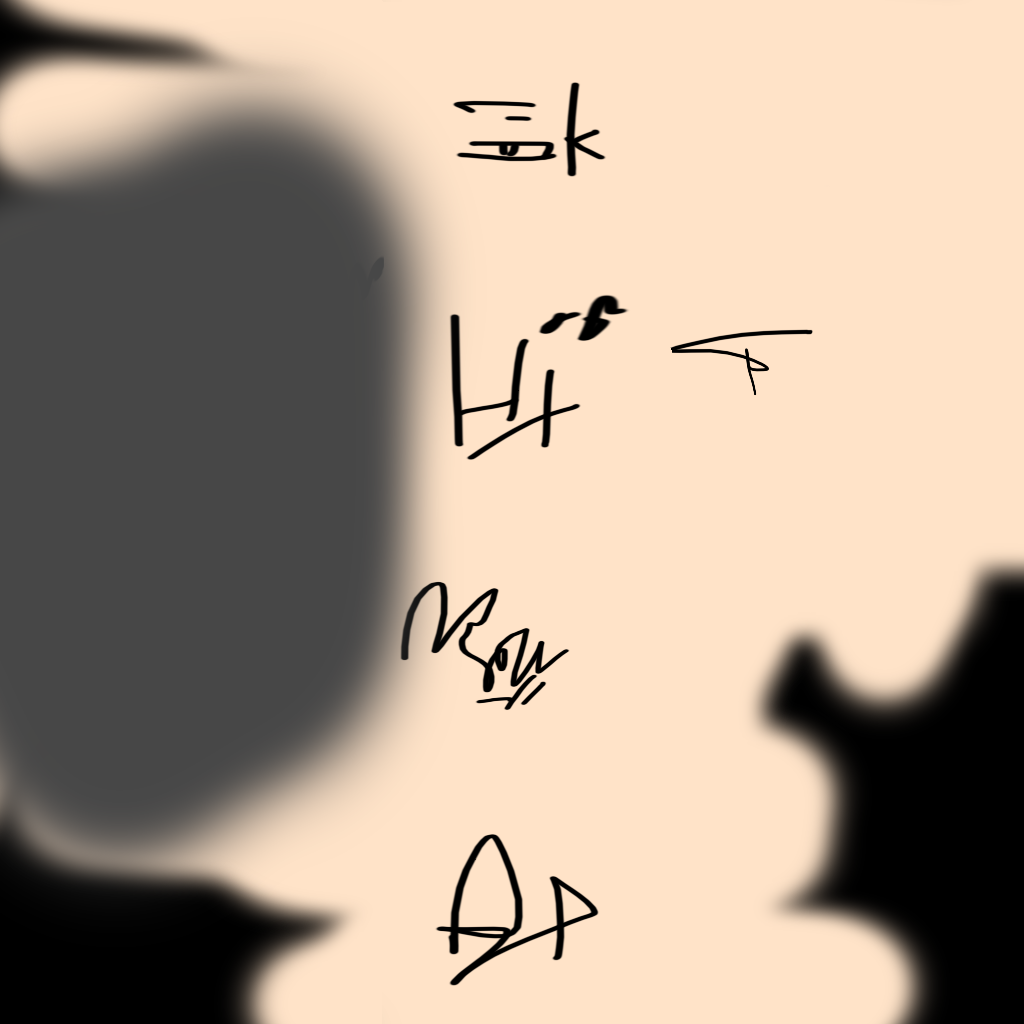
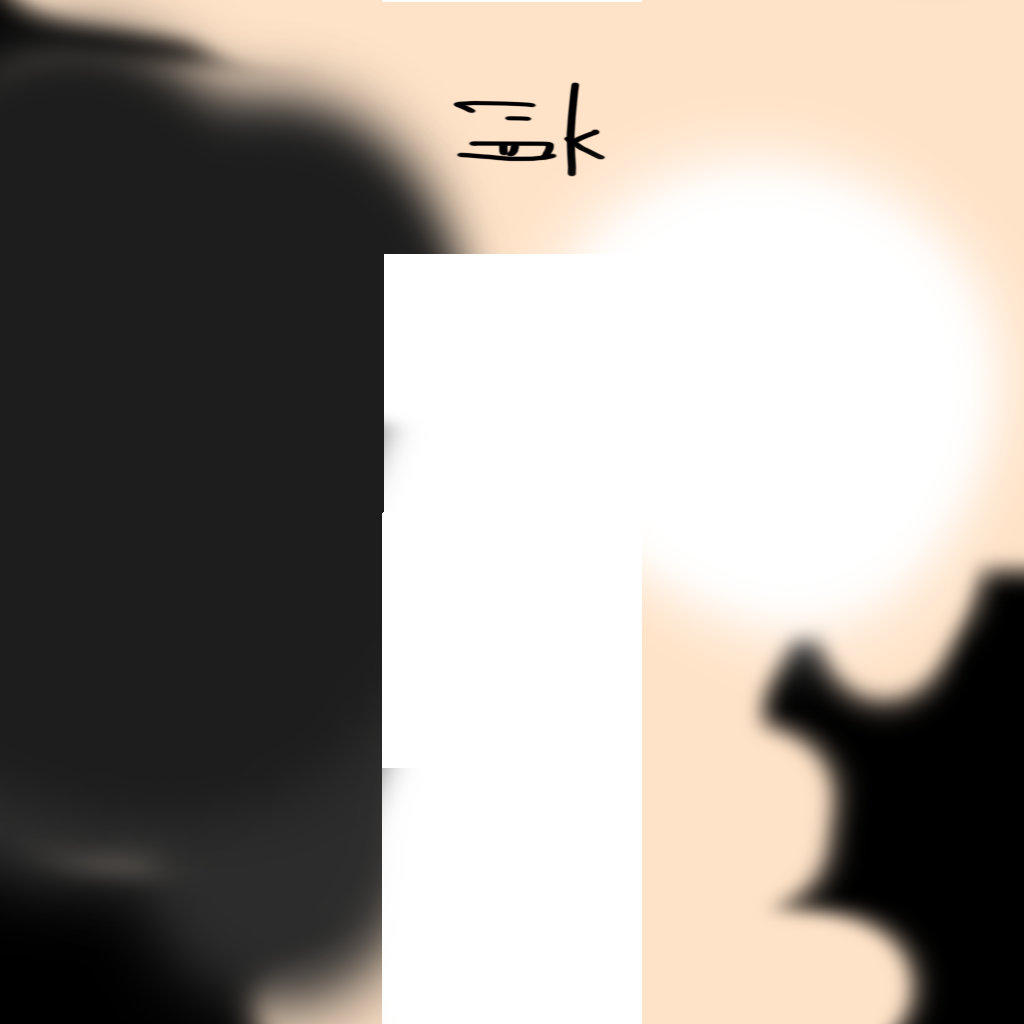
更新

diff --git a/Game/Title/Room.cpp b/Game/Title/Room.cpp
@@ -10,20 +10,22 @@ Room::~Room()
 
 void Room::Init()
 {
-	model_ = new Model();
-	model_->Initialize("Resources/room", "room.obj", { 1.0f,1.0f,1.0f,1.0f }, true);
-	texture_ = TextureManager::StoreTexture("Resourcess/room/room.png");
+	/*model_ = new Model();
+	model_->Initialize("Resources/room", "room.obj", { 1.0f,1.0f,1.0f,1.0f }, true);*/
+	//texture_ = TextureManager::StoreTexture("Resourcess/room/room.png");
 	worldTransform_.Initialize();
 	worldTransform_.translation_.z = 10;
 	worldTransform_.UpdateMatrix();
 	model_ = new Model();
-	model_->Initialize("Resources/room", "room.obj", color);
+	model_->Initialize("Resources/room", "room.obj", color,false);
 	modelFront_ = new Model();
-	modelFront_->Initialize("Resources/room", "roomFront.obj", color);
+	modelFront_->Initialize("Resources/room", "roomFront.obj", color,false);
 	shutter_ = new Model();
-	shutter_->Initialize("Resources/room", "shutter.obj", color);
+	shutter_->Initialize("Resources/room", "shutter.obj", color,true);
 	texture_ = TextureManager::StoreTexture("Resources/room/room.png");
 	texture2_ = TextureManager::StoreTexture("Resources/room/shutter.png");
+	texture3_ = TextureManager::StoreTexture("Resources/room/roomFront.png");
+	
 }
 
 void Room::Update()
@@ -34,7 +36,7 @@ void Room::Draw(Camera* camera)
 {
 	shutter_->Draw(worldTransform_, texture2_, camera, color);
 	model_->Draw(worldTransform_, texture_, camera, color);
-	modelFront_->Draw(worldTransform_, texture_, camera, color);
+	modelFront_->Draw(worldTransform_, texture3_, camera, color);
 }
 
 void Room::Release()

diff --git a/Engine/Input/Input.cpp b/Engine/Input/Input.cpp
@@ -35,7 +35,7 @@ void Input::Initialize() {
 void Input::Update() {
 	// 前回のキー入力を保存
 	memcpy(preKeys, keys, sizeof(keys));
-	XINPUT_STATE state;
+	XINPUT_STATE state{};
 	memcpy(&preState,&state,sizeof(state));
 
 	// キーボード情報の取得開始

diff --git a/Game/Title/Room.h b/Game/Title/Room.h
@@ -34,6 +34,7 @@ private:
 	Model* shutter_ = nullptr;
 	uint32_t texture_ = 1;
 	uint32_t texture2_ = 1;
+	uint32_t texture3_ = 1;
 	Input* input = nullptr;
 	Vector4 color = { 1.0f,1.0f,1.0f,1.0f };
 	Sprite* sprite_ = nullptr;
